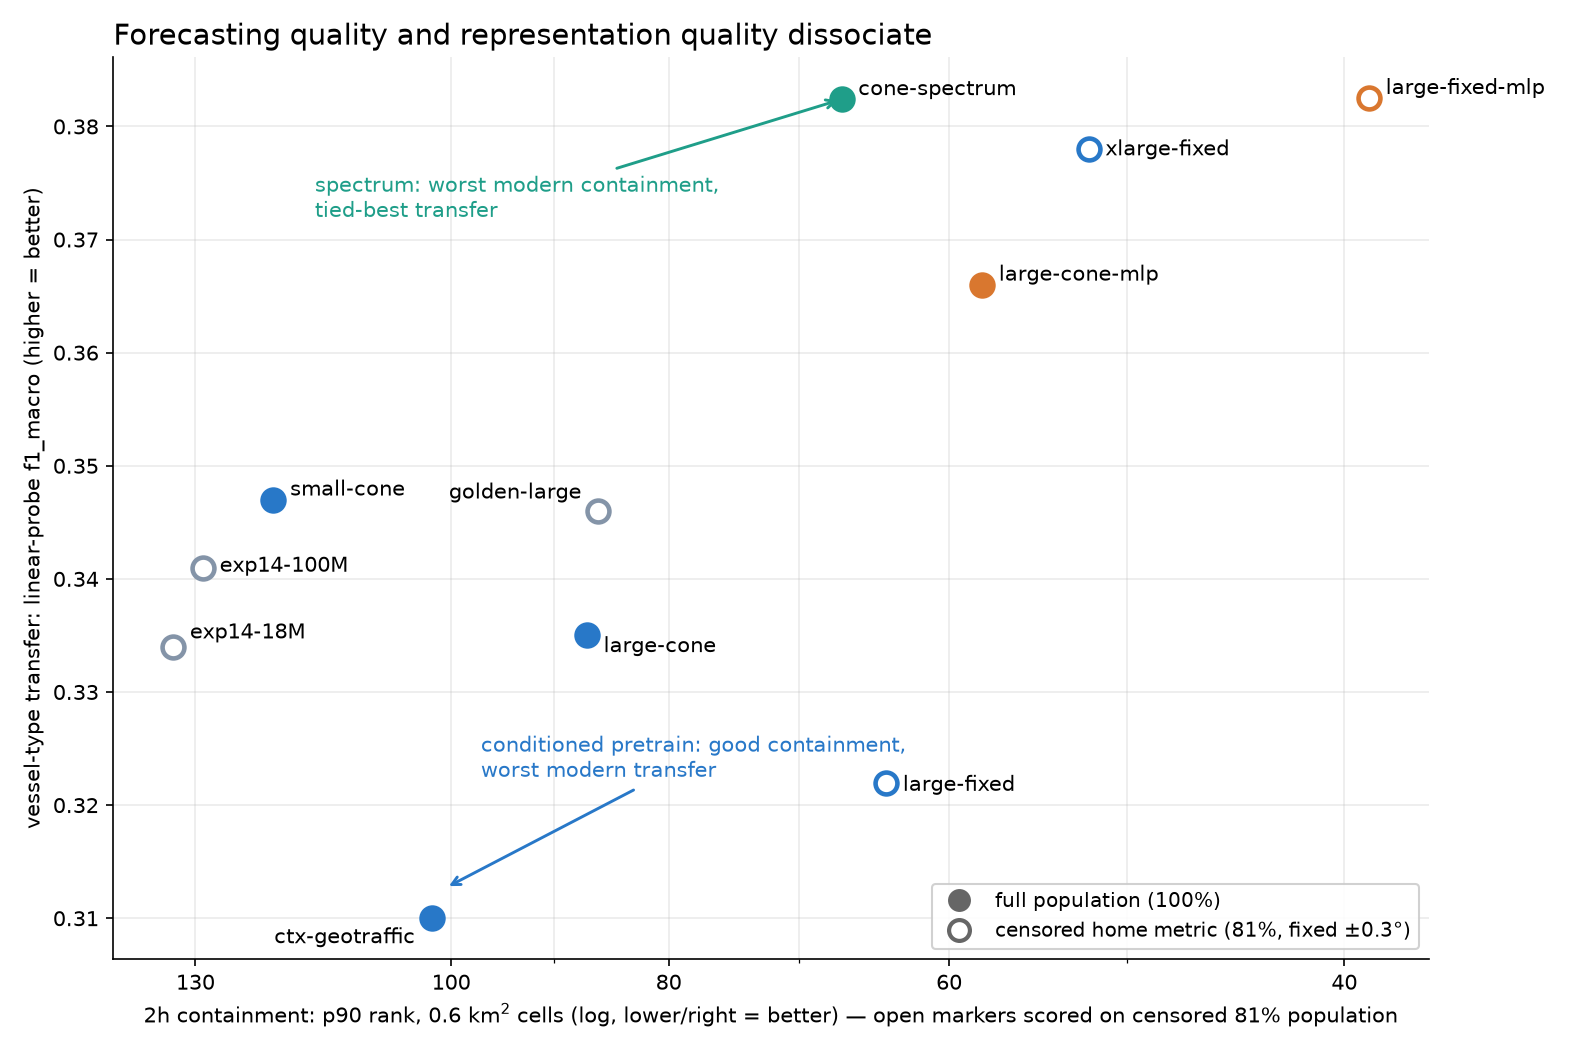
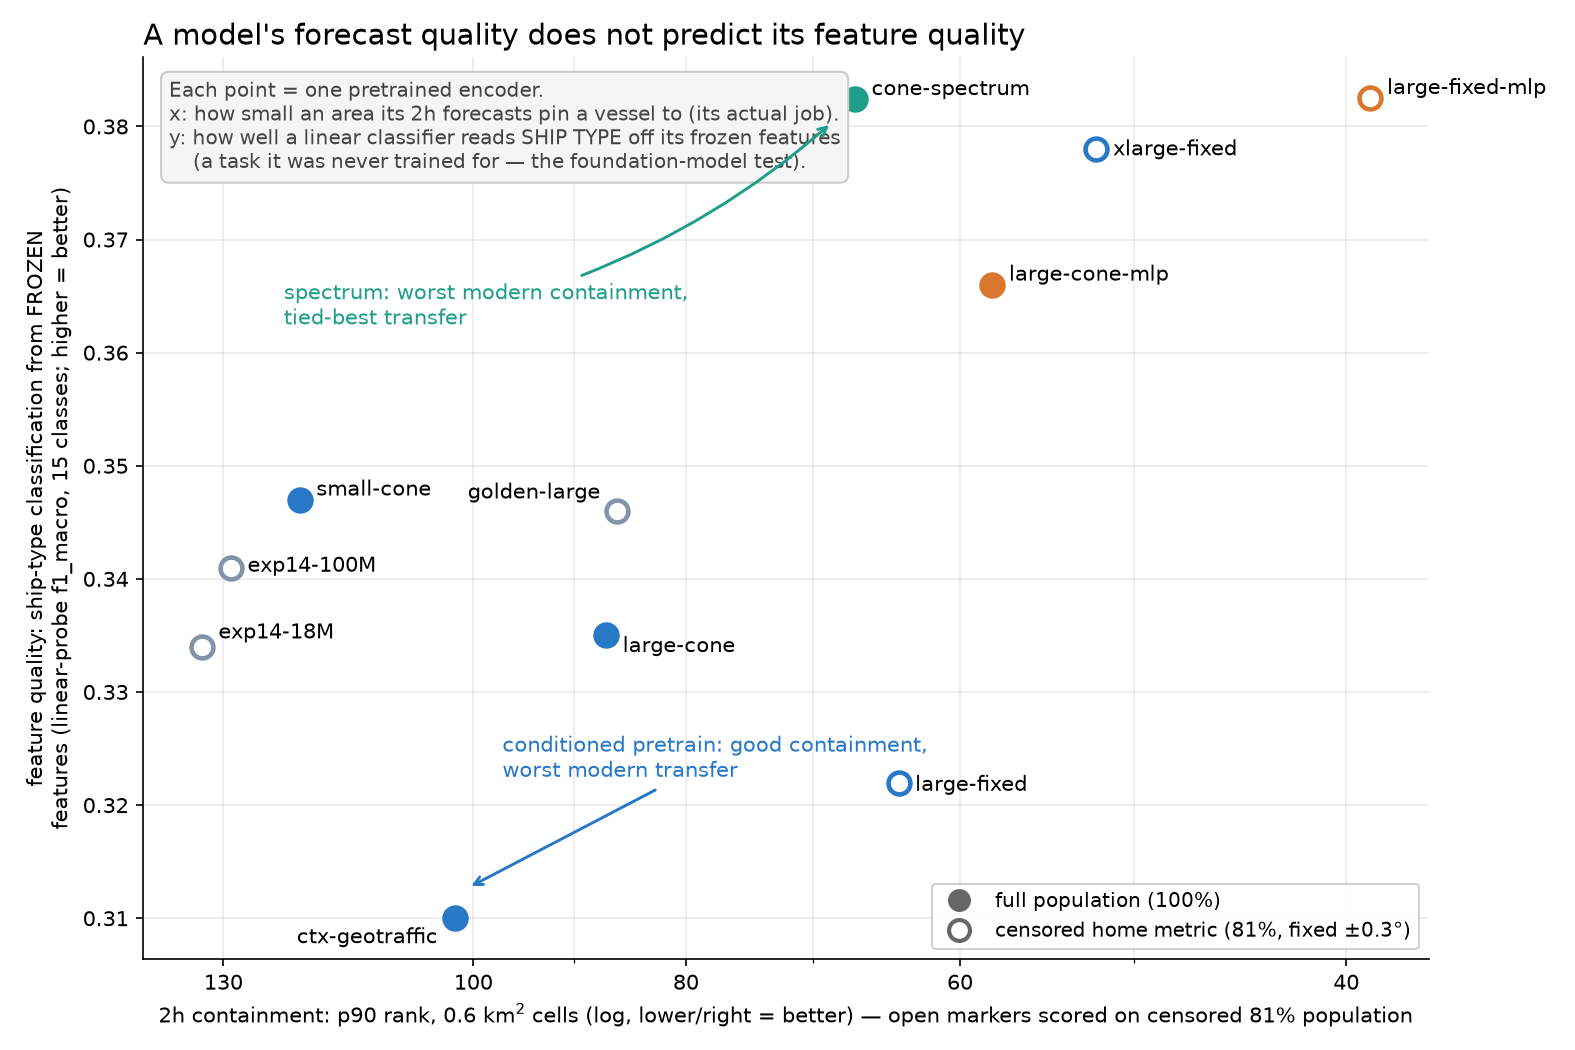
Dissociation scatter: self-explanatory relabel (plain-language title/axes/explainer box), de-collided callouts
Claude-Session: https://claude.ai/code/session_01KwT3hEvkJiUSH9L354LuSS

diff --git a/scripts/gen_dissociation_scatter.py b/scripts/gen_dissociation_scatter.py
@@ -58,13 +58,22 @@ def main():
     ax.set_xlabel("2h containment: p90 rank, 0.6 km$^2$ cells "
                   "(log, lower/right = better) — open markers scored on "
                   "censored 81% population")
-    ax.set_ylabel("vessel-type transfer: linear-probe f1_macro (higher = better)")
-    ax.set_title("Forecasting quality and representation quality dissociate",
+    ax.set_ylabel("feature quality: ship-type classification from FROZEN\n"
+                  "features (linear-probe f1_macro, 15 classes; higher = better)")
+    ax.set_title("A model's forecast quality does not predict its feature quality",
                  loc="left", fontsize=14)
+    ax.text(0.02, 0.975,
+            "Each point = one pretrained encoder.\n"
+            "x: how small an area its 2h forecasts pin a vessel to (its actual job).\n"
+            "y: how well a linear classifier reads SHIP TYPE off its frozen features\n"
+            "    (a task it was never trained for — the foundation-model test).",
+            transform=ax.transAxes, va="top", fontsize=9.5, color="#444",
+            bbox=dict(boxstyle="round,pad=0.4", fc="#f5f5f5", ec="#ccc"))
     # the two story arrows
     ax.annotate("spectrum: worst modern containment,\ntied-best transfer",
-                xy=(67, .3824), xytext=(115, .372), fontsize=10, color=TEAL,
-                arrowprops=dict(arrowstyle="->", color=TEAL, lw=1.4))
+                xy=(68.5, .3805), xytext=(122, .3625), fontsize=10, color=TEAL,
+                arrowprops=dict(arrowstyle="->", color=TEAL, lw=1.4,
+                                connectionstyle="arc3,rad=0.12", shrinkB=3))
     ax.annotate("conditioned pretrain: good containment,\nworst modern transfer",
                 xy=(101, .3125), xytext=(97, .3225), fontsize=10, color=BLUE,
                 ha="left",